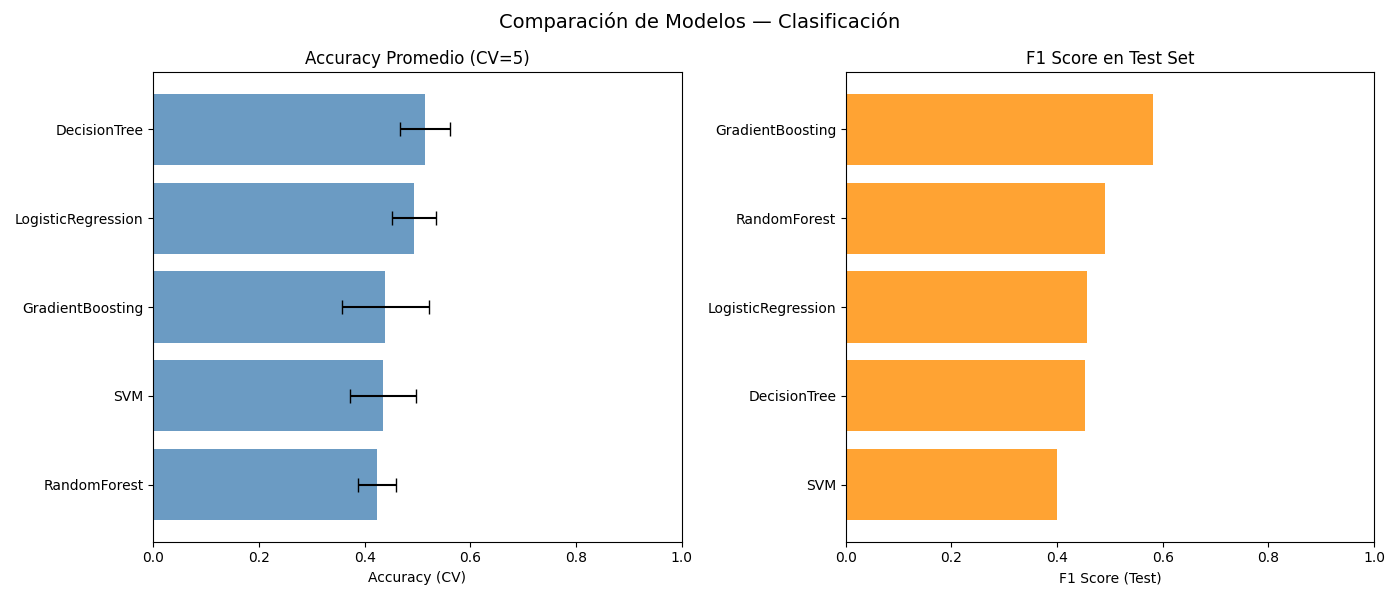
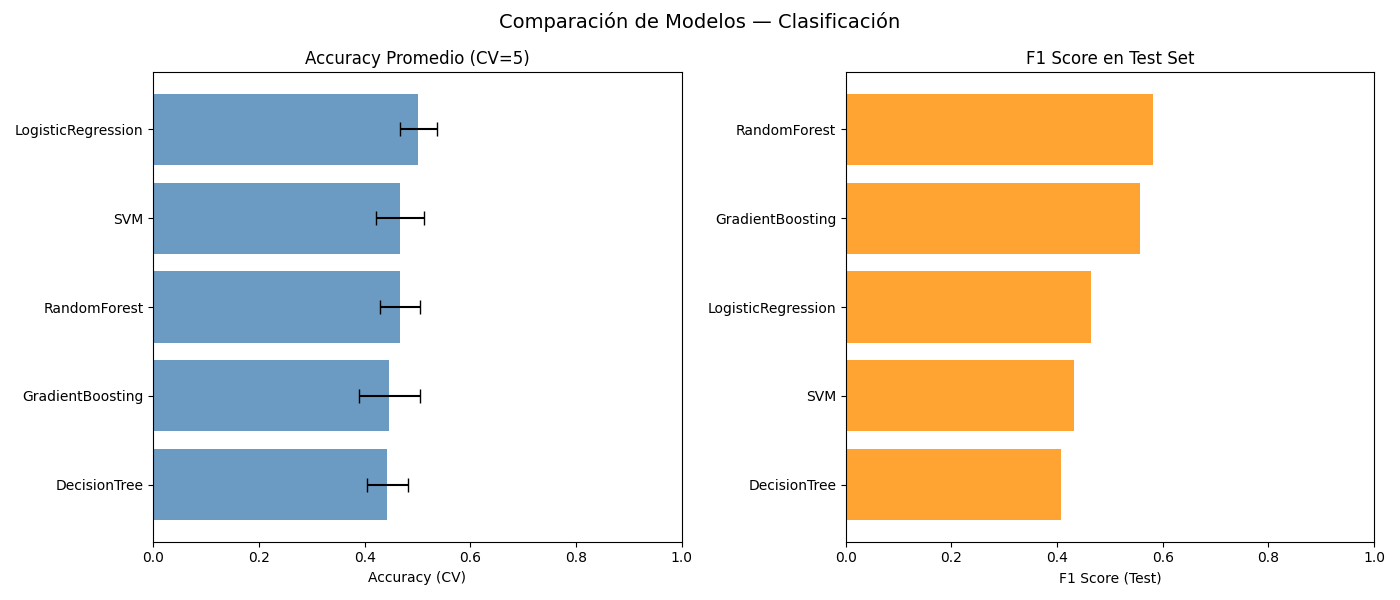
mejora imputacion con relleno logico ceros + KNNImputer

diff --git a/src/leandrocienciasdedatos/ml/data_preprocessing.py b/src/leandrocienciasdedatos/ml/data_preprocessing.py
@@ -52,33 +52,56 @@ def optimizar_tipos(df: pd.DataFrame) -> pd.DataFrame:
 def preparar_dataset(df: pd.DataFrame) -> pd.DataFrame:
     """
     Prepara el dataset_final_integrado para Machine Learning.
-    Usa KNNImputer para preservar todas las filas sin perder información.
-    Crea el target de clasificación y optimiza tipos de datos.
+    - Rellena con 0 ausencias y capacitaciones faltantes (lógica de negocio)
+    - Usa KNNImputer para métricas de desempeño
+    - Crea el target de clasificación
     """
     from sklearn.impute import KNNImputer
 
     df = df.copy()
 
-    # Seleccionar columnas numéricas para imputar
-    cols_numericas = FEATURES_CLASIFICACION + FEATURES_REGRESION + [
-        "score_global", "avg_desempeno"
+    # Paso 1: Relleno lógico de negocio (0 = sin registros)
+    cols_cero = [
+        "total_dias_ausencia",
+        "total_horas_capacitacion",
+        "total_dias_ausencia_norm",
+        "total_horas_capacitacion_norm",
     ]
-    cols_numericas = list(set(cols_numericas))
-    cols_existentes = [c for c in cols_numericas if c in df.columns]
+    for col in cols_cero:
+        if col in df.columns:
+            df[col] = df[col].fillna(0)
 
-    # Aplicar KNNImputer (k=5 vecinos más cercanos)
+    # Paso 2: KNNImputer para métricas de desempeño
+    cols_knn = [
+        "avg_desempeno",
+        "avg_tecnicas",
+        "avg_blandas",
+        "score_global",
+        "antiguedad_anos",
+        "antiguedad_anos_norm",
+        "departamento_encoded",
+        "cargo_encoded",
+        "tipo_contrato_encoded",
+        "jornada_encoded",
+    ]
+    cols_knn_existentes = [c for c in cols_knn if c in df.columns]
+
     imputer = KNNImputer(n_neighbors=5)
-    df[cols_existentes] = imputer.fit_transform(df[cols_existentes])
+    df[cols_knn_existentes] = imputer.fit_transform(
+        df[cols_knn_existentes]
+    )
 
-    # Crear target de clasificación binario
+    # Paso 3: Crear target de clasificación
     mediana = df["score_global"].median()
-    df[TARGET_CLASIFICACION] = (df["score_global"] > mediana).astype(int)
+    df[TARGET_CLASIFICACION] = (
+        df["score_global"] > mediana
+    ).astype(int)
 
-    # Optimizar memoria
+    # Paso 4: Optimizar memoria
     df = optimizar_tipos(df)
 
     logger.info(
-        f"Dataset preparado con KNNImputer: {df.shape[0]} filas | "
+        f"Dataset preparado: {df.shape[0]} filas | "
         f"Clase 1 (alto desempeño): {df[TARGET_CLASIFICACION].sum()} | "
         f"Clase 0: {(df[TARGET_CLASIFICACION] == 0).sum()}"
     )
